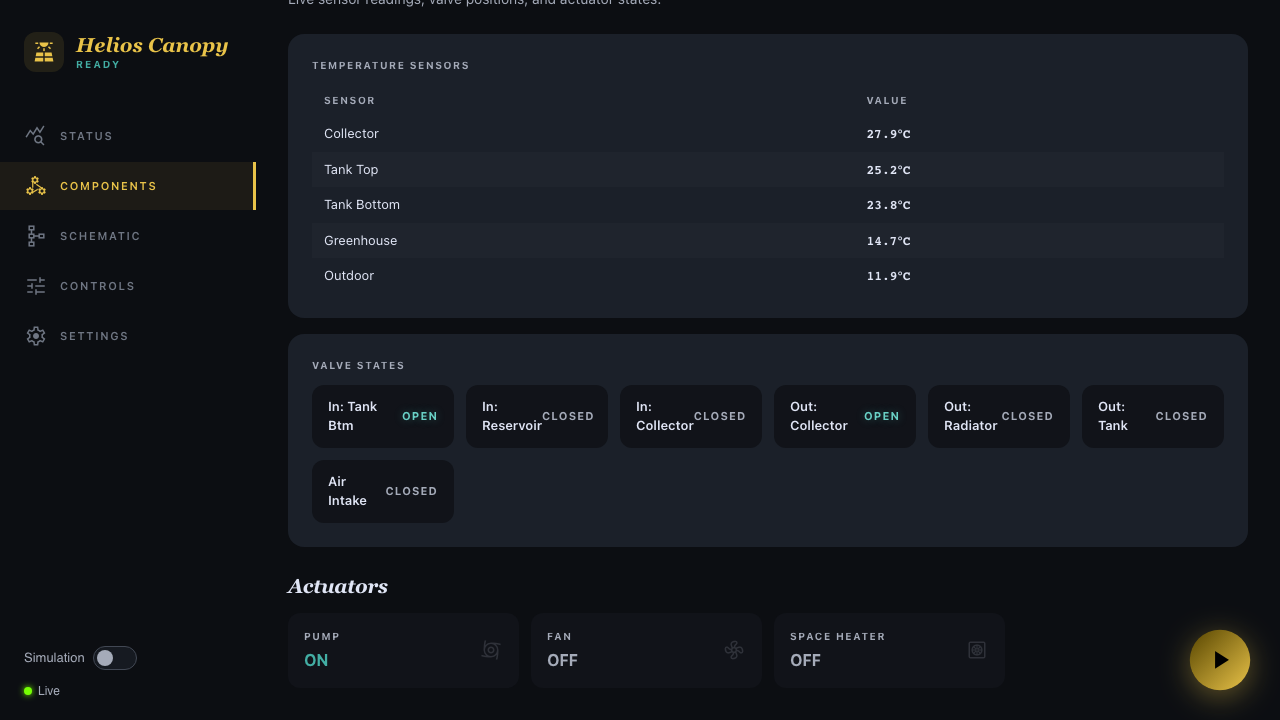
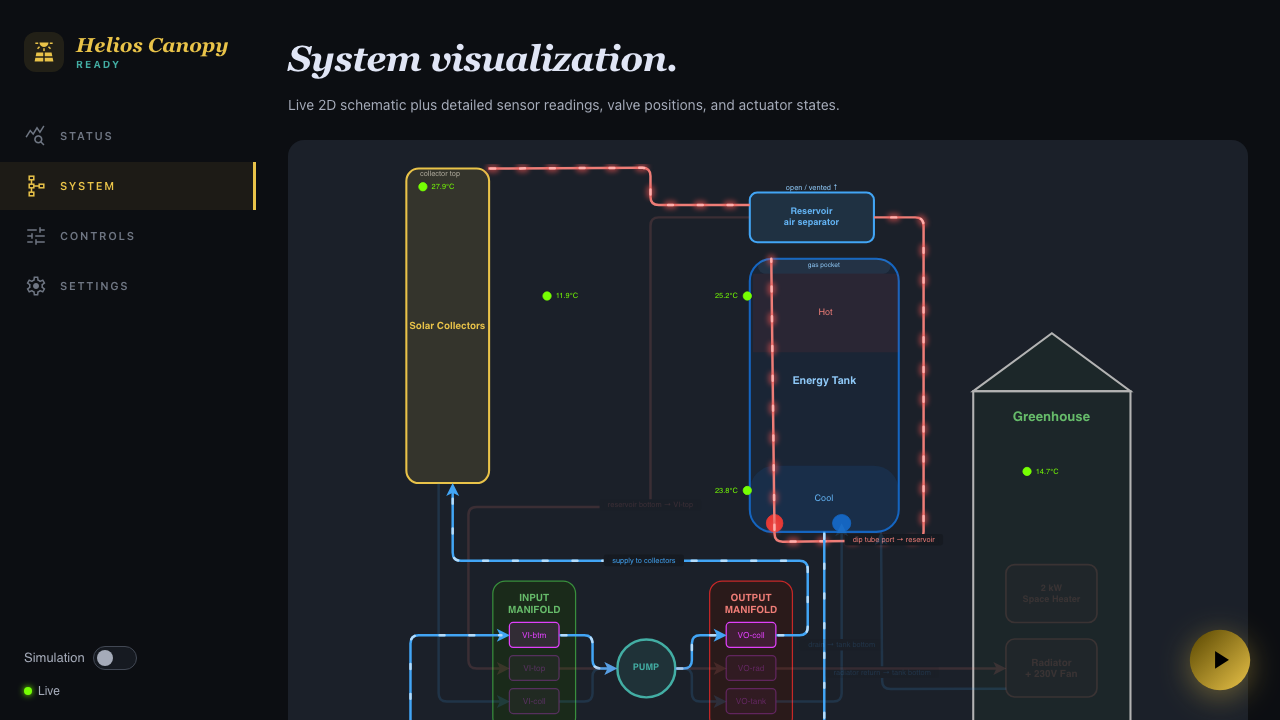
Merge Schematic into Components and Sensors into Device
Collapses the 7-item nav (status, components, schematic, controls,
sensors, device, settings) to 5 (status, components, controls, device,
settings). The schematic now renders at the top of the Components view
and the sensor-discovery UI lives inside the Device view. Legacy
navigation.js so bookmarks and the commissioning screenshot generator
keep working.

diff --git a/playground/index.html b/playground/index.html
@@ -64,20 +64,12 @@
         Status
       </a>
       <a data-view="components">
-        <span class="material-symbols-outlined">component_exchange</span>
-        Components
-      </a>
-      <a data-view="schematic">
         <span class="material-symbols-outlined">schema</span>
-        Schematic
+        System
       </a>
       <a data-view="controls">
         <span class="material-symbols-outlined">tune</span>
         Controls
-      </a>
-      <a data-view="sensors" class="live-only" style="display:none;">
-        <span class="material-symbols-outlined">sensors</span>
-        Sensors
       </a>
       <a data-view="device" class="live-only" style="display:none;">
         <span class="material-symbols-outlined">settings_remote</span>
@@ -113,20 +105,12 @@
       <span>Status</span>
     </a>
     <a data-view="components">
-      <span class="material-symbols-outlined">component_exchange</span>
-      <span>Components</span>
-    </a>
-    <a data-view="schematic">
       <span class="material-symbols-outlined">schema</span>
-      <span>Schematic</span>
+      <span>System</span>
     </a>
     <a data-view="controls">
       <span class="material-symbols-outlined">tune</span>
       <span>Controls</span>
-    </a>
-    <a data-view="sensors" class="live-only" style="display:none;">
-      <span class="material-symbols-outlined">sensors</span>
-      <span>Sensors</span>
     </a>
     <a data-view="device" class="live-only" style="display:none;">
       <span class="material-symbols-outlined">settings_remote</span>
@@ -309,11 +293,16 @@
     <!-- ═══ COMPONENTS VIEW ═══ -->
     <section id="view-components" class="view">
       <div class="view-header">
-        <h2>System components.</h2>
-        <p>Live sensor readings, valve positions, and actuator states.</p>
+        <h2>System visualization.</h2>
+        <p>Live 2D schematic plus detailed sensor readings, valve positions, and actuator states.</p>
       </div>
 
-      <div class="bento-grid">
+      <!-- Schematic: big-picture visual summary of the system -->
+      <div class="card">
+        <div id="schematic" class="svg-container"></div>
+      </div>
+
+      <div class="bento-grid" style="margin-top:16px;">
         <div class="card bento-span-3">
           <h3>Temperature Sensors</h3>
           <table class="status-table">
@@ -340,17 +329,6 @@
       </div>
     </section>
 
-    <!-- ═══ SCHEMATIC VIEW ═══ -->
-    <section id="view-schematic" class="view">
-      <div class="view-header">
-        <h2>System visualization.</h2>
-        <p>Live 2D schematic of the heating system — pipe flows, temperatures, and component states.</p>
-      </div>
-      <div class="card">
-        <div id="schematic" class="svg-container"></div>
-      </div>
-    </section>
-
     <!-- ═══ CONTROLS VIEW ═══ -->
     <section id="view-controls" class="view">
       <div class="view-header">
@@ -373,22 +351,16 @@
       </div>
     </section>
 
-    <!-- ═══ SENSORS VIEW (live mode only) ═══ -->
-    <section id="view-sensors" class="view">
-      <div class="view-header">
-        <h2>Sensor configuration.</h2>
-        <p>Discover, identify, and assign DS18B20 sensors to system roles. Click <strong>Scan Sensors</strong> to read addresses and live temperatures.</p>
-      </div>
-      <div id="sensors-content">
-        <div class="card"><p style="color:var(--on-surface-variant);">Loading sensor configuration...</p></div>
-      </div>
-    </section>
-
     <!-- ═══ DEVICE VIEW (live mode only) ═══ -->
     <section id="view-device" class="view">
       <div class="view-header">
         <h2>Device configuration.</h2>
-        <p>Runtime settings for the Shelly controller. Changes are pushed instantly via MQTT.</p>
+        <p>Sensor assignment and runtime settings for the Shelly controller. Changes are pushed instantly via MQTT.</p>
+      </div>
+
+      <!-- Sensor discovery & assignment: merged from former Sensors view -->
+      <div id="sensors-content">
+        <div class="card"><p style="color:var(--on-surface-variant);">Loading sensor configuration...</p></div>
       </div>
 
       <div class="card" id="staged-valve-detail-card" style="display:none;">

diff --git a/tests/e2e/sensor-errors.spec.js b/tests/e2e/sensor-errors.spec.js
@@ -10,18 +10,18 @@ const sensorConfigResponse = {
   version: 0,
 };
 
-// Helper: navigate to sensors view
+// Helper: navigate to the Device view (contains the merged sensors section)
 async function goToSensors(page) {
   await page.goto('/playground/');
   await page.waitForSelector('.sidebar-nav');
   await page.evaluate(() => {
     document.querySelectorAll('.live-only').forEach(el => el.style.display = '');
     document.querySelectorAll('.view').forEach(v => v.classList.remove('active'));
-    var sensorsView = document.getElementById('view-sensors');
-    if (sensorsView) sensorsView.classList.add('active');
+    var deviceView = document.getElementById('view-device');
+    if (deviceView) deviceView.classList.add('active');
     document.querySelectorAll('[data-view]').forEach(l => l.classList.remove('active'));
-    document.querySelectorAll('[data-view="sensors"]').forEach(l => l.classList.add('active'));
-    window.location.hash = 'sensors';
+    document.querySelectorAll('[data-view="device"]').forEach(l => l.classList.add('active'));
+    window.location.hash = 'device';
   });
   await page.waitForSelector('#sensors-content .card', { timeout: 15000 });
 }
@@ -356,20 +356,19 @@ test.describe('Sensor discovery no response for a host', () => {
 });
 
 test.describe('Sensor view hash navigation on reload', () => {
-  test('navigating directly to #sensors shows the sensors view', async ({ page }) => {
+  test('navigating directly to #sensors shows the device view (legacy alias)', async ({ page }) => {
     await page.route('**/api/sensor-config', async (route) => {
       await route.fulfill({ status: 200, contentType: 'application/json', body: JSON.stringify(sensorConfigResponse) });
     });
 
-    // Navigate directly with #sensors hash (simulates browser reload)
+    // Navigate with legacy #sensors hash — routed through HASH_ALIASES to the
+    // merged Device view that now hosts sensor configuration.
     await page.goto('/playground/#sensors');
     await page.waitForSelector('#sensors-content .card', { timeout: 15000 });
 
-    // Sensors view should be active, not status
-    const sensorsView = page.locator('#view-sensors');
-    await expect(sensorsView).toHaveClass(/active/);
+    const deviceView = page.locator('#view-device');
+    await expect(deviceView).toHaveClass(/active/);
 
-    // Status view should NOT be active
     const statusView = page.locator('#view-status');
     await expect(statusView).not.toHaveClass(/active/);
   });

diff --git a/playground/js/actions/navigation.js b/playground/js/actions/navigation.js
@@ -5,6 +5,19 @@
 
 import { derived } from '../app-state.js';
 
+// Legacy hash aliases — the Schematic and Sensors views were merged into
+// Components and Device respectively. Existing bookmarks and tests that use
+// the old hashes still route to the right place.
+const HASH_ALIASES = {
+  schematic: 'components',
+  sensors: 'device',
+};
+
+function resolveHash(raw) {
+  const key = raw.replace('#', '') || 'status';
+  return HASH_ALIASES[key] || key;
+}
+
 /**
  * Initialize hash-based navigation. Binds hashchange listener and sets initial view.
  */
@@ -13,18 +26,18 @@ export function initNavigation(store) {
   document.querySelectorAll('[data-view]').forEach(link => {
     link.addEventListener('click', (e) => {
       e.preventDefault();
-      window.location.hash = link.dataset.view;
+      window.location.hash = HASH_ALIASES[link.dataset.view] || link.dataset.view;
     });
   });
 
   // Hash change handler
   window.addEventListener('hashchange', () => {
-    const viewId = window.location.hash.replace('#', '') || 'status';
+    const viewId = resolveHash(window.location.hash);
     navigateTo(store, viewId);
   });
 
   // Initial view from hash (or default to status)
-  const initialView = window.location.hash.replace('#', '') || 'status';
+  const initialView = resolveHash(window.location.hash);
   if (window.location.hash === '') window.location.hash = 'status';
   // Force initial navigation even if value matches default (=== check would skip notification)
   const available = derived.availableViews;

diff --git a/tests/e2e/sensor-config.spec.js b/tests/e2e/sensor-config.spec.js
@@ -71,17 +71,15 @@ test.describe('Sensor Configuration View', () => {
     await page.goto('/playground/');
     // Wait for the app to initialize
     await page.waitForSelector('.sidebar-nav');
-    // Make live-only elements visible and navigate
+    // The sensor-config UI is now part of the merged Device view.
     await page.evaluate(() => {
       document.querySelectorAll('.live-only').forEach(el => el.style.display = '');
-      // Directly activate the sensors view since navigateToView may have already run
       document.querySelectorAll('.view').forEach(v => v.classList.remove('active'));
-      var sensorsView = document.getElementById('view-sensors');
-      if (sensorsView) sensorsView.classList.add('active');
+      var deviceView = document.getElementById('view-device');
+      if (deviceView) deviceView.classList.add('active');
       document.querySelectorAll('[data-view]').forEach(l => l.classList.remove('active'));
-      document.querySelectorAll('[data-view="sensors"]').forEach(l => l.classList.add('active'));
-      // Trigger the sensors init
-      window.location.hash = 'sensors';
+      document.querySelectorAll('[data-view="device"]').forEach(l => l.classList.add('active'));
+      window.location.hash = 'device';
     });
     await page.waitForSelector('#sensors-content .card', { timeout: 15000 });
   }

diff --git a/tests/e2e/screenshots.spec.js b/tests/e2e/screenshots.spec.js
@@ -129,14 +129,16 @@ test.describe('Components View Screenshots', () => {
   });
 });
 
-// ─── Schematic View ─────────────────────────────────────────────────────
+// ─── Schematic (now part of the merged Components view) ───────────────────
 
 test.describe('Schematic View Screenshots', () => {
   test.beforeEach(async ({ page }) => {
 
     await page.goto('/playground/?mode=sim');
-    await page.locator('[data-view="schematic"]').first().click();
-    await expect(page.locator('#view-schematic')).toBeVisible();
+    // Schematic is now rendered inside the merged Components view.
+    await page.locator('[data-view="components"]').first().click();
+    await expect(page.locator('#view-components')).toBeVisible();
+    await expect(page.locator('#schematic svg')).toBeVisible();
   });
 
   test('desktop', async ({ page }) => {

diff --git a/tests/e2e/thermal-sim.spec.js b/tests/e2e/thermal-sim.spec.js
@@ -105,7 +105,8 @@ test.describe('Thermal Simulation UI', () => {
   });
 
   test('schematic is visible', async ({ page }) => {
-    await goToView(page, 'schematic');
+    // Schematic is now rendered at the top of the merged Components view.
+    await goToView(page, 'components');
     await expect(page.locator('#schematic svg')).toBeVisible();
   });
 
@@ -154,9 +155,8 @@ test.describe('Thermal Simulation UI', () => {
     expect(box.height).toBeGreaterThan(50);
 
     const sidebarLinks = page.locator('.sidebar-nav a');
-    // status, components, schematic, controls, sensors, device, settings
-    // (sensors+device are .live-only and hidden in sim mode, but still in DOM)
-    await expect(sidebarLinks).toHaveCount(7);
+    // status, components (merged system), controls, device (live-only, still in DOM), settings
+    await expect(sidebarLinks).toHaveCount(5);
     await expect(page.locator('.sidebar-nav a.active')).toContainText('Status');
   });
 });

diff --git a/playground/js/app-state.js b/playground/js/app-state.js
@@ -57,9 +57,11 @@ export const derived = {
 
   get availableViews() {
     const phase = store.get('phase');
-    if (phase === 'live' || phase === 'init') return ['status', 'components', 'schematic', 'sensors', 'device', 'settings'];
-    if (phase === 'simulation') return ['status', 'components', 'schematic', 'controls', 'settings'];
-    return ['status', 'components', 'schematic', 'settings'];
+    // 'components' is now the merged System view (schematic + sensors/valves/actuators).
+    // 'device' is the merged Device view (sensor assignment + controller runtime config).
+    if (phase === 'live' || phase === 'init') return ['status', 'components', 'device', 'settings'];
+    if (phase === 'simulation') return ['status', 'components', 'controls', 'settings'];
+    return ['status', 'components', 'settings'];
   },
 
   get connectionDisplay() {

diff --git a/tests/e2e/take-commissioning-screenshots.spec.js b/tests/e2e/take-commissioning-screenshots.spec.js
@@ -22,14 +22,19 @@ async function setSlider(page, id, value) {
   }, [id, value]);
 }
 
+// Legacy names that were merged into other views. Screenshots still use the
+// old names so the doc filenames stay stable.
+const HASH_ALIASES = { schematic: 'components', sensors: 'device' };
+
 /** Navigate via hash to avoid sidebar/bottom-nav visibility issues */
 async function navTo(page, viewName) {
+  const resolved = HASH_ALIASES[viewName] || viewName;
   await page.evaluate((v) => {
     window.location.hash = v;
     window.dispatchEvent(new HashChangeEvent('hashchange'));
-  }, viewName);
+  }, resolved);
   await page.waitForTimeout(300);
-  await expect(page.locator('#view-' + viewName)).toBeVisible();
+  await expect(page.locator('#view-' + resolved)).toBeVisible();
 }
 
 async function waitForFonts(page) {

diff --git a/playground/js/main.js b/playground/js/main.js
@@ -714,9 +714,11 @@ async function init() {
   });
   controller = new ControlStateMachine(config.modes);
 
-  // Set up view lifecycle callbacks for the store-driven navigation
+  // Set up view lifecycle callbacks for the store-driven navigation.
+  // Sensor discovery UI lives inside the merged Device view, so it mounts
+  // when currentView === 'device'.
   setViewLifecycle({
-    sensors: {
+    device: {
       mount: (container, s) => {
         initSensorsView();
         return () => destroySensorsView();

diff --git a/CLAUDE.md b/CLAUDE.md
@@ -21,7 +21,7 @@ When making changes, **update system.yaml first**, then propagate to affected do
 - `system.yaml` → authoritative specs (heights, valve states, modes, components)
 - `shelly/` → Shelly device scripts and deployment tooling
 - `shelly/lint/` → Shelly platform conformance linter (CLI, standalone package)
-- `playground/` → main web app SPA/PWA (single-page app with 5 views: Status, Components, Schematic, Controls, Device). Deep-linkable via URL hash fragments (`#status`, `#schematic`, etc.). Protected by passkey auth in cloud mode. Installable as PWA with push notification support.
+- `playground/` → main web app SPA/PWA (single-page app with 5 views: Status, Components (merged system schematic + valve/sensor/actuator details), Controls, Device (merged sensor assignment + Shelly runtime config), Settings). Deep-linkable via URL hash fragments (`#status`, `#components`, etc.). Legacy `#schematic` and `#sensors` hashes still resolve to `#components` and `#device` respectively via aliases in `js/actions/navigation.js`. Protected by passkey auth in cloud mode. Installable as PWA with push notification support.
 - `playground/login.html` → passkey login page (WebAuthn registration + authentication)
 - `playground/js/login.js` → passkey auth client-side logic
 - `playground/vendor/simplewebauthn-browser.mjs` → vendored @simplewebauthn/browser 13.3.0
